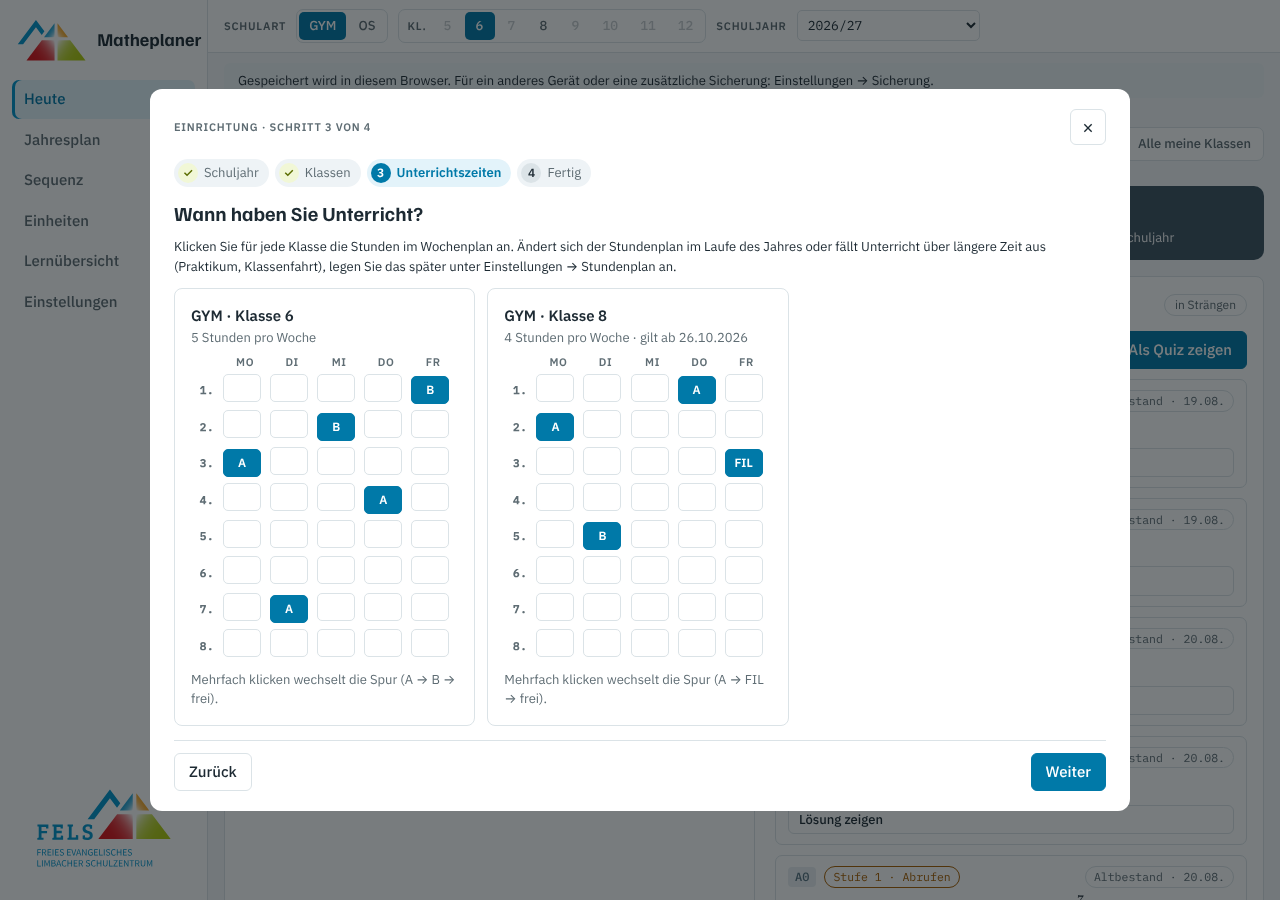
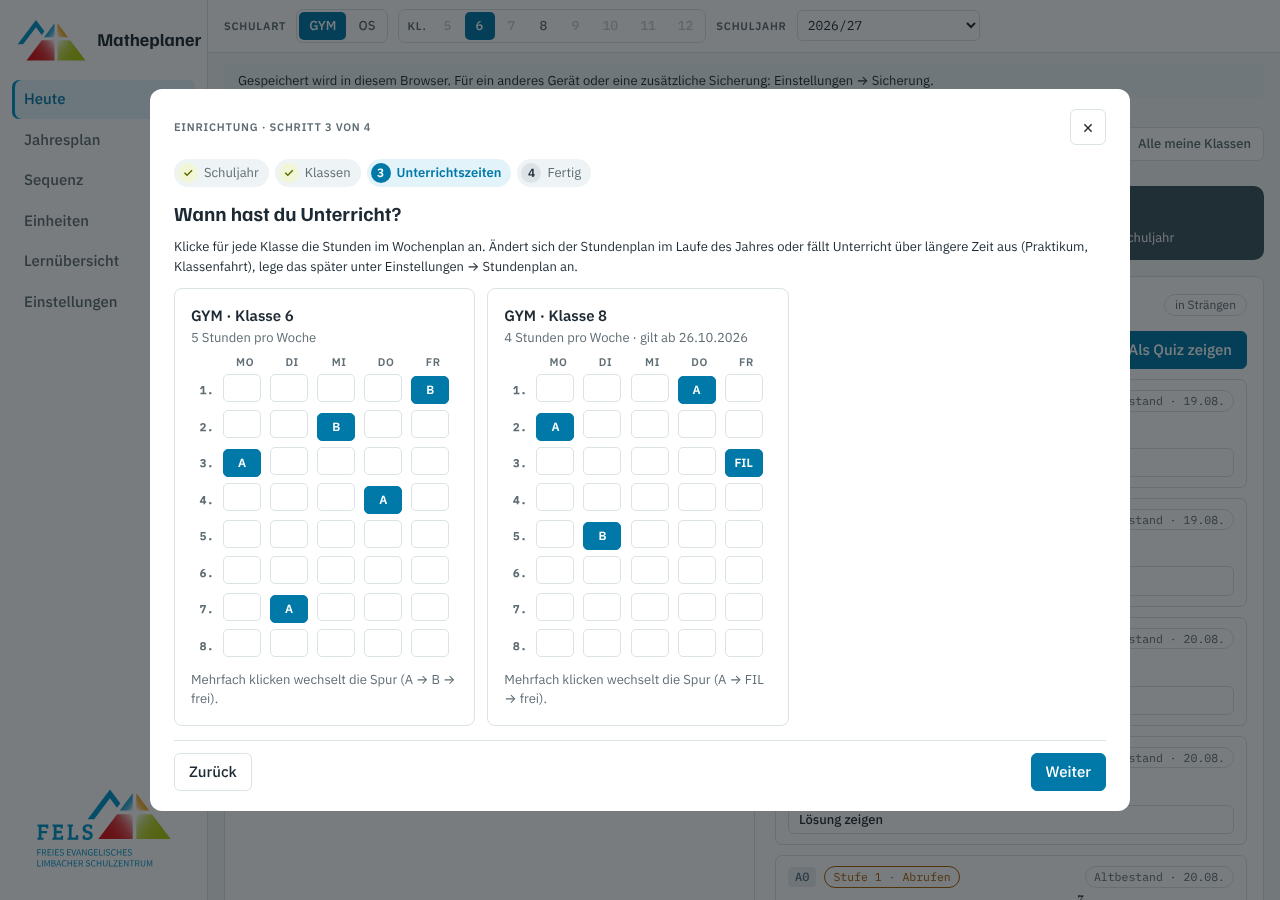
Anrede in der App: du statt Sie
Claude-Session: https://claude.ai/code/session_01LsRvvx4N56vA7fn2jwzqzo

Changed region(s): [[0.125, 0.2178, 0.8438, 0.3111]]

diff --git a/dist/app.js b/dist/app.js
@@ -744,12 +744,12 @@ function renderBanner() {
   const el = document.getElementById("banner");
   const m = {
     loading: "Gespeicherte Daten werden geladen …",
-    slow: "Der Speicher antwortet noch nicht. Sie sehen gerade den Ausgangsplan; Änderungen werden gespeichert, sobald die Verbindung steht.",
+    slow: "Der Speicher antwortet noch nicht. Du siehst gerade den Ausgangsplan; Änderungen werden gespeichert, sobald die Verbindung steht.",
     local: "Gespeichert wird in diesem Browser. Für ein anderes Gerät oder eine zusätzliche Sicherung: Einstellungen → Sicherung.",
-    off: "Speichern ist in dieser Ansicht nicht verfügbar. Änderungen gelten nur bis zum Neuladen. Öffnen Sie die App angemeldet auf claude.ai.",
+    off: "Speichern ist in dieser Ansicht nicht verfügbar. Änderungen gelten nur bis zum Neuladen. Öffne die App angemeldet auf claude.ai.",
     err: "Speichern ist gerade fehlgeschlagen. Die App versucht es bei der nächsten Änderung erneut.",
-    ro: "Sie können diesen Plan ansehen, aber nicht ändern.",
-    quota: "Der Speicher ist voll. Löschen Sie alte Daten über Einstellungen → Sicherung.",
+    ro: "Du kannst diesen Plan ansehen, aber nicht ändern.",
+    quota: "Der Speicher ist voll. Lösche alte Daten über Einstellungen → Sicherung.",
   }[dbState];
   el.textContent = m || ""; el.hidden = !m; el.dataset.kind = dbState;
 }
@@ -768,9 +768,9 @@ function unitLink(k, code, label) {
 function clsTabs() { const k = curG(); return `<span class="badge">${esc(k ? fullLabel(k) : (TYPES[UI.type] || {}).label || "")} · ${esc(yearLabel(cal().id))}</span>`; }
 function noClassMsg() {
   const T = TYPES[UI.type] || {}, has = CLASSES.some(k => D.classes[k].type === UI.type);
-  if (!mineList().length) return `Sie haben für ${esc(yearLabel(cal().id))} noch keine Klassen festgelegt. <a href="#einstellungen">Einstellungen → Meine Klassen</a>`;
-  if (has) return `Sie unterrichten ${esc(yearLabel(cal().id))} keine Klasse der Schulart ${esc(T.label || "")}. <a href="#einstellungen">Einstellungen → Meine Klassen</a>`;
-  return `Für ${esc(T.label || "diese Schulart")} ist noch kein Lehrplan hinterlegt. Wählen Sie oben eine andere Schulart.`;
+  if (!mineList().length) return `Du hast für ${esc(yearLabel(cal().id))} noch keine Klassen festgelegt. <a href="#einstellungen">Einstellungen → Meine Klassen</a>`;
+  if (has) return `Du unterrichtest ${esc(yearLabel(cal().id))} keine Klasse der Schulart ${esc(T.label || "")}. <a href="#einstellungen">Einstellungen → Meine Klassen</a>`;
+  return `Für ${esc(T.label || "diese Schulart")} ist noch kein Lehrplan hinterlegt. Wähle oben eine andere Schulart.`;
 }
 function noClassView(title) {
   const T = TYPES[UI.type] || {};
@@ -784,7 +784,7 @@ function renderCtx() {
     <div class="seg small grades" role="group" aria-label="Klassenstufe"><span class="lbl">Kl.</span>${T.grades.map(g => {
       const all = classesFor(UI.type, g), mine = all.filter(isMine), curV = cur && D.classes[cur].variant;
       const k = mine.find(c => D.classes[c].variant === curV) || mine[0];
-      return `<button type="button" aria-pressed="${!!cur && all.includes(cur)}" ${k ? `data-act="cls" data-k="${k}" title="${esc(mine.map(c => D.classes[c].label).join(", "))}"` : all.length ? `disabled title="Klasse ${g} gehört nicht zu Ihren Klassen (Einstellungen → Meine Klassen)"` : `disabled title="Klasse ${g}: Lehrplan noch nicht hinterlegt"`}>${g}</button>`; }).join("")}</div>
+      return `<button type="button" aria-pressed="${!!cur && all.includes(cur)}" ${k ? `data-act="cls" data-k="${k}" title="${esc(mine.map(c => D.classes[c].label).join(", "))}"` : all.length ? `disabled title="Klasse ${g} gehört nicht zu deinen Klassen (Einstellungen → Meine Klassen)"` : `disabled title="Klasse ${g}: Lehrplan noch nicht hinterlegt"`}>${g}</button>`; }).join("")}</div>
     ${cur && classesFor(UI.type, D.classes[cur].grade).filter(isMine).length > 1 ? `<div class="seg small" role="group" aria-label="Bildungsgang bzw. Kursart">${classesFor(UI.type, D.classes[cur].grade).filter(isMine).map(c => `<button type="button" aria-pressed="${c === cur}" data-act="cls" data-k="${c}" title="${esc(D.classes[c].variantLabel)}">${esc(D.classes[c].variant || "")}</button>`).join("")}</div>` : ""}
     ${cur && S.cls[cur].groups.length > 1 ? `<div class="seg small" role="group" aria-label="Parallelklasse">${groupsOf(cur).map(g => `<button type="button" aria-pressed="${g === curG()}" data-act="grp" data-g="${g}">${esc(groupName(g))}</button>`).join("")}</div>` : ""}
     <span class="ctxl">Schuljahr</span><select id="yearsel" aria-label="Schuljahr">${S.settings.years.map(y => `<option value="${esc(y.id)}" ${y.id === cal().id ? "selected" : ""}>${esc(yearLabel(y.id))}</option>`).join("")}<option value="__new">+ Neues Schuljahr …</option></select>`;
@@ -998,8 +998,8 @@ function viewSeq() {
     </div>
     <div class="grid2">
       <div class="card"><h3>Stunden je Lernbereich</h3><p class="small muted">geplant / Zeitrichtwert des Lehrplans</p>${lbRows}</div>
-      <div class="card"><h3>Hinterherhängen?</h3><p class="small">Auf der Heute-Seite gibt es dafür zwei Knöpfe. „Einheit braucht 1 Std. mehr“ verlängert die laufende Einheit, „Fällt aus“ streicht eine Stunde. ${S.settings.autoBuffer ? "In beiden Fällen kürzt die App automatisch den nächsten Puffer im selben Strang, damit das Schuljahr aufgeht." : "Puffer werden nicht automatisch gekürzt (Einstellungen)."} Hier können Sie Puffer (P) auch von Hand verschieben oder kürzen.</p>
-      ${confirm ? `<div class="confirm"><span>Sequenz von ${esc(c.label)} auf die Vorlage zurücksetzen? Ihre Änderungen an Reihenfolge und Stunden gehen verloren.</span><button type="button" class="btn danger" data-act="reset" data-k="${ck(k)}">Zurücksetzen</button><button type="button" class="btn ghost" data-act="confirm" data-v="">Abbrechen</button></div>` : `<button type="button" class="btn ghost" data-act="confirm" data-v="reset-${k}">Auf Vorlage zurücksetzen</button>`}</div>
+      <div class="card"><h3>Hinterherhängen?</h3><p class="small">Auf der Heute-Seite gibt es dafür zwei Knöpfe. „Einheit braucht 1 Std. mehr“ verlängert die laufende Einheit, „Fällt aus“ streicht eine Stunde. ${S.settings.autoBuffer ? "In beiden Fällen kürzt die App automatisch den nächsten Puffer im selben Strang, damit das Schuljahr aufgeht." : "Puffer werden nicht automatisch gekürzt (Einstellungen)."} Hier kannst du Puffer (P) auch von Hand verschieben oder kürzen.</p>
+      ${confirm ? `<div class="confirm"><span>Sequenz von ${esc(c.label)} auf die Vorlage zurücksetzen? Deine Änderungen an Reihenfolge und Stunden gehen verloren.</span><button type="button" class="btn danger" data-act="reset" data-k="${ck(k)}">Zurücksetzen</button><button type="button" class="btn ghost" data-act="confirm" data-v="">Abbrechen</button></div>` : `<button type="button" class="btn ghost" data-act="confirm" data-v="reset-${k}">Auf Vorlage zurücksetzen</button>`}</div>
     </div></section>`;
 }
 
@@ -1098,7 +1098,7 @@ function viewEngine() {
     </div>
     <div class="grid2">
       <div class="card"><h3>So funktioniert es</h3>
-        <p class="small">Jedes Atom ist einer Stunde zugeordnet. Ab der Stunde danach erscheint es auf der Heute-Seite zur Wiederholung, z. B. als Einstiegsaufgabe. Sie bewerten, wie gut die Klasse es abrufen konnte:</p>
+        <p class="small">Jedes Atom ist einer Stunde zugeordnet. Ab der Stunde danach erscheint es auf der Heute-Seite zur Wiederholung, z. B. als Einstiegsaufgabe. Du bewertest, wie gut die Klasse es abrufen konnte:</p>
         <ul class="small rlist">${RATES.map(([g, l, h]) => `<li><b class="r${g}t">${l}</b> ${h} der Klasse richtig</li>`).join("")}</ul>
         <p class="small">Daraus berechnet FSRS für jedes Atom Stabilität und Schwierigkeit und legt die nächste Wiederholung so, dass die Klasse es dann noch mit der gewählten Wahrscheinlichkeit abrufen kann. Gut sitzende Atome kommen immer seltener, wackelige öfter.</p>
         <p class="small">Je stabiler ein Atom sitzt, desto anspruchsvoller wird die Aufgabe: ${levelPill(1)} bis ${LV_S2} Tage Stabilität, ${levelPill(2)} ab ${LV_S2} Tagen, ${levelPill(3)} ab ${LV_S3} Tagen. Nach „Nochmal“ oder bei geringem Abruf geht es eine Stufe zurück.</p>
@@ -1130,7 +1130,7 @@ function myClassesCard() {
     return ks.map(k => myClassRow(k, mine)).join("");
   }).join("")).join("");
   return `<div class="card myclasses"><h3>Meine Klassen ${esc(yearLabel(Y.id))}</h3>
-    <p class="small muted">Haken Sie an, welche Klassen Sie in diesem Schuljahr unterrichten. Nur diese erscheinen oben in der Leiste und unter „Alle meine Klassen“. In der Oberschule gibt es ab Klasse 7 eigene Pläne für den Haupt- (HS) und Realschulbildungsgang (RS), im Gymnasium in 11/12 für Grund- (GK) und Leistungskurs (LK). Parallelklassen teilen sich Sequenz und Atome, haben aber eigenen Stundenplan und Lernstand.</p>
+    <p class="small muted">Hake an, welche Klassen du in diesem Schuljahr unterrichtest. Nur diese erscheinen oben in der Leiste und unter „Alle meine Klassen“. In der Oberschule gibt es ab Klasse 7 eigene Pläne für den Haupt- (HS) und Realschulbildungsgang (RS), im Gymnasium in 11/12 für Grund- (GK) und Leistungskurs (LK). Parallelklassen teilen sich Sequenz und Atome, haben aber eigenen Stundenplan und Lernstand.</p>
     <div class="tscroll"><table class="form"><thead><tr><th>Klasse</th><th>Parallelklassen</th><th>Namen</th></tr></thead><tbody>${rows}</tbody></table></div>
     <p class="small muted">Lehrpläne: Lehrplandatenbank Sachsen${D.lehrplanQuelle ? `, abgerufen am ${esc(fmt(D.lehrplanQuelle.abgerufen, { day: "2-digit", month: "2-digit", year: "numeric" }))}` : ""}. Klasse 6 und 8 (Gymnasium) mit ausgearbeiteter Stoffverteilung und Atomen.</p></div>`;
 }
@@ -1173,7 +1173,7 @@ function ttCard(k) {
   const sug = UI.date > (vs.length ? vs[vs.length - 1].frm : "") && UI.date <= Y.end ? monday(UI.date) < UI.date ? addDays(monday(UI.date), 7) : UI.date : "";
   const off = (C.off || []).map((o, i) => `<tr><td><input data-act="off" data-i="${i}" data-f="name" value="${esc(o.name)}" aria-label="Anlass" placeholder="z. B. Praktikum"></td><td><input type="date" data-act="off" data-i="${i}" data-f="frm" value="${esc(o.frm)}" aria-label="von"></td><td><input type="date" data-act="off" data-i="${i}" data-f="to" value="${esc(o.to)}" aria-label="bis"></td><td><button type="button" class="mini del" data-act="offdel" data-i="${i}" aria-label="Löschen">×</button></td></tr>`).join("");
   return `<div class="card"><h3>Stundenplan ${esc(fullLabel(k))} · ${esc(yearLabel(Y.id))}</h3>
-    ${S.cls[ck(k)].groups.length > 1 ? `<p class="small">Gilt nur für ${esc(groupName(k))}. Die andere Parallelklasse wählen Sie oben in der Leiste.</p>` : ""}
+    ${S.cls[ck(k)].groups.length > 1 ? `<p class="small">Gilt nur für ${esc(groupName(k))}. Die andere Parallelklasse wählst du oben in der Leiste.</p>` : ""}
     <p class="small muted">Jeder Zeitraum gilt ab seinem Datum bis zum Beginn des nächsten. Spur A und B sind die beiden Stränge (im Modus „nacheinander“ zählen beide zusammen)${fil ? ", FIL = zusätzliche FIL-Stunde (nur Klasse 7–9)" : ""}.</p>
     ${blocks}
     ${lastDayRow(k)}
@@ -1218,7 +1218,7 @@ function viewSettings() {
       ${k ? ttCard(k) : `<div class="card"><h3>Stundenplan</h3><p class="small muted">${noClassMsg()}</p></div>`}
     </div>
     <div class="card"><h3>Sicherung</h3>
-      <p class="small">Ihre Daten werden automatisch gespeichert. Eine Sicherung enthält die Einstellungen aller Schuljahre und die Klassen und den Lernstand des angezeigten Schuljahres (${esc(yearLabel(Y.id))}).</p>
+      <p class="small">Deine Daten werden automatisch gespeichert. Eine Sicherung enthält die Einstellungen aller Schuljahre und die Klassen und den Lernstand des angezeigten Schuljahres (${esc(yearLabel(Y.id))}).</p>
       <div class="acts"><button type="button" class="btn" data-act="export">Sicherung kopieren</button><button type="button" class="btn ghost" data-act="download" id="dlbtn" hidden>Als Datei speichern</button><button type="button" class="btn ghost" data-act="engreset">Lernstand ${esc(yearLabel(Y.id))} leeren</button></div>
       <textarea id="importbox" rows="3" placeholder="Sicherung hier einfügen …" aria-label="Sicherung einfügen"></textarea>
       <div class="acts"><button type="button" class="btn ghost" data-act="import">Sicherung einspielen</button>
@@ -1270,19 +1270,19 @@ function viewOnboarding() {
   const dots = `<ol class="obsteps">${OB_STEPS.map((s, i) => `<li class="${i === st ? "cur" : i < st ? "done" : ""}">${esc(s)}</li>`).join("")}</ol>`;
   let body = "";
   if (st === 0) body = `<h2>Willkommen im Matheplaner</h2>
-    <p>In drei kurzen Schritten richten Sie das Schuljahr ein: welche Klassen Sie unterrichten und wann. Danach zeigt die Heute-Seite Ihre Stunden, und die App plant Stoff und Wiederholungen.</p>
+    <p>In drei kurzen Schritten richtest du das Schuljahr ein: welche Klassen du unterrichtest und wann. Danach zeigt die Heute-Seite deine Stunden, und die App plant Stoff und Wiederholungen.</p>
     <div class="card"><b>Schuljahr ${esc(yearLabel(Y.id))}</b><span class="small muted">${esc(fmt(Y.start, { day: "2-digit", month: "2-digit", year: "numeric" }))} – ${esc(fmt(Y.end, { day: "2-digit", month: "2-digit", year: "numeric" }))} · ${Y.holidays.length} Ferienabschnitte · ${Y.free.length} freie Tage</span>
     ${Y.holidays.length ? `<span class="small muted">Ferien und Feiertage für Sachsen sind eingetragen.</span>` : `<button type="button" class="btn ghost sm" data-act="ferien">Ferien Sachsen importieren</button>`}</div>`;
-  else if (st === 1) body = `<h2>Welche Klassen unterrichten Sie?</h2>
-    <p class="small">Haken Sie Ihre Klassen an. Gibt es zwei Parallelklassen (z. B. 8a und 8b), wählen Sie „2 Parallelklassen“: Sie planen dann einmal, jede Klasse hat aber eigene Stunden und eigenen Lernstand. In der Oberschule gibt es ab Klasse 7 Haupt- (HS) und Realschulbildungsgang (RS), im Gymnasium in 11/12 Grund- (GK) und Leistungskurs (LK).</p>
+  else if (st === 1) body = `<h2>Welche Klassen unterrichtest du?</h2>
+    <p class="small">Hake deine Klassen an. Gibt es zwei Parallelklassen (z. B. 8a und 8b), wähle „2 Parallelklassen“: Du planst dann einmal, jede Klasse hat aber eigene Stunden und eigenen Lernstand. In der Oberschule gibt es ab Klasse 7 Haupt- (HS) und Realschulbildungsgang (RS), im Gymnasium in 11/12 Grund- (GK) und Leistungskurs (LK).</p>
     ${Object.entries(TYPES).map(([t, T]) => `<h3 class="obtype">${esc(T.label)}</h3><table class="form obclasses"><tbody>${T.grades.flatMap(g => classesFor(t, g)).map(k => myClassRow(k, mine)).join("")}</tbody></table>`).join("")}`;
-  else if (st === 2) body = `<h2>Wann haben Sie Unterricht?</h2>
-    <p class="small">Klicken Sie für jede Klasse die Stunden im Wochenplan an. Ändert sich der Stundenplan im Laufe des Jahres oder fällt Unterricht über längere Zeit aus (Praktikum, Klassenfahrt), legen Sie das später unter Einstellungen → Stundenplan an.</p>
-    ${myGroups().length ? `<div class="obgrids">${mine.flatMap(groupsOf).map(obGrid).join("")}</div>` : `<p class="muted">Sie haben noch keine Klasse gewählt. <button type="button" class="linkbtn" data-act="obstep" data-v="1">Zurück zu den Klassen</button></p>`}`;
+  else if (st === 2) body = `<h2>Wann hast du Unterricht?</h2>
+    <p class="small">Klicke für jede Klasse die Stunden im Wochenplan an. Ändert sich der Stundenplan im Laufe des Jahres oder fällt Unterricht über längere Zeit aus (Praktikum, Klassenfahrt), lege das später unter Einstellungen → Stundenplan an.</p>
+    ${myGroups().length ? `<div class="obgrids">${mine.flatMap(groupsOf).map(obGrid).join("")}</div>` : `<p class="muted">Du hast noch keine Klasse gewählt. <button type="button" class="linkbtn" data-act="obstep" data-v="1">Zurück zu den Klassen</button></p>`}`;
   else body = `<h2>Fertig</h2>
-    <p>Ihr Schuljahr ${esc(yearLabel(Y.id))} ist eingerichtet:</p>
+    <p>Dein Schuljahr ${esc(yearLabel(Y.id))} ist eingerichtet:</p>
     <ul>${mine.flatMap(groupsOf).map(g => `<li>${esc(fullLabel(g))}: ${obVersion(g) ? weekHours(obVersion(g).lessons) : 0} Stunden pro Woche</li>`).join("") || "<li>keine Klasse gewählt</li>"}</ul>
-    <p class="small muted">Die Sequenz jeder Klasse folgt dem Lehrplan; Reihenfolge und Stunden passen Sie unter „Sequenz“ an. Alle Angaben lassen sich unter „Einstellungen“ ändern, den Assistenten starten Sie dort erneut.</p>`;
+    <p class="small muted">Die Sequenz jeder Klasse folgt dem Lehrplan; Reihenfolge und Stunden passt du unter „Sequenz“ an. Alle Angaben lassen sich unter „Einstellungen“ ändern, den Assistenten startest du dort erneut.</p>`;
   return `<div class="ov-card onboard" role="dialog" aria-label="Einrichtung">
     <header><span class="lbl">Einrichtung · Schritt ${st + 1} von ${OB_STEPS.length}</span><button type="button" class="iconbtn" data-act="obskip" aria-label="Assistent schließen">×</button></header>
     ${dots}<div class="obbody">${body}</div>

diff --git a/src/test.js b/src/test.js
@@ -206,7 +206,7 @@ function serve(dir) {
   await p.evaluate(() => location.hash = 'einstellungen'); await p.waitForTimeout(150);
   await p.uncheck('[data-act="mine"][data-k="kl6"]'); await p.waitForTimeout(150);
   ok(await p.evaluate(() => JSON.stringify(window.__mp.cal().classes) === '["kl8"]'), 'Meine Klassen 2026/27: nur Klasse 8');
-  ok(await p.$$eval('#ctx .grades button', bs => bs.some(e => e.textContent === '6' && e.disabled && /nicht zu Ihren Klassen/.test(e.title))), 'Leiste: Klasse 6 ausgegraut');
+  ok(await p.$$eval('#ctx .grades button', bs => bs.some(e => e.textContent === '6' && e.disabled && /nicht zu deinen Klassen/.test(e.title))), 'Leiste: Klasse 6 ausgegraut');
   await p.evaluate(() => location.hash = 'heute'); await p.waitForTimeout(150);
   await p.click('[data-act="todaycls"][data-v="all"]'); await p.waitForTimeout(100);
   ok(JSON.stringify(await p.$$eval('.tcard h2', hs => hs.map(h => h.textContent))) === JSON.stringify(['GYM · 8a', 'GYM · 8b']), 'Alle meine Klassen: nur 8a und 8b');
